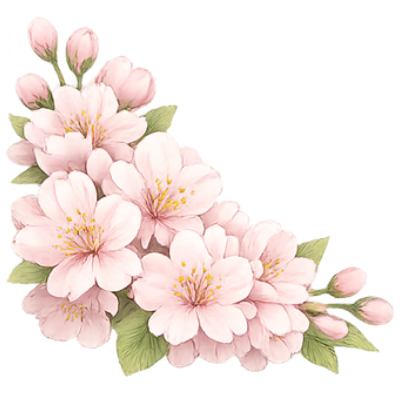
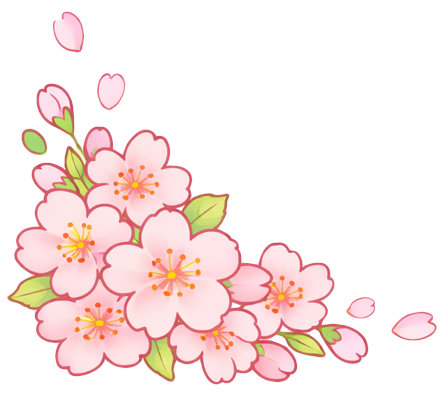
- 変更: facility.html と usageFlow.html に白背景クラスを追加 - 変更: header.css でヘッダー内のリンク色を背景色に統一し、白背景ページ用のスタイルを追加 - 変更: style.css で背景グラデーションの設定を修正し、ビューポート高さを確保 - 変更: toppage.css でテキスト色を背景色に変更し、レスポンシブ対応を強化 - 変更: usageFlowStyle.css にタイトル色のスタイルを追加 - 変更: js/app.js で季節クラスの付与機能を無効化するオプションを追加

diff --git a/header.css b/header.css
@@ -58,6 +58,8 @@ header a {
     text-decoration: none;
     font-weight: bold;
     font-size: 1rem;
+    /* 通常時：ヘッダー文字色は背景色と同系で表示 */
+    color: var(--backgroundColor);
 }
 
 header a:hover {
@@ -105,7 +107,6 @@ header .contact:hover img {
     transition: none;
     width: auto;
     min-width: fit-content;
-    color: var(--primaryTextColor);
     position: absolute;
     left: 50%;
     transform: translateX(-50%);
@@ -235,9 +236,12 @@ header.expanded .navbar .logo {
     margin: 0;
 }
 
-.navbar .logo a {
+
+/* ロゴ：グラデーション時は backgroundColor／グラデーション未適用ページでは primaryTextColor（変更しない） */
+
+header .navbar .logo a {
     font-size: 1.4rem;
-    color: var(--primaryTextColor);
+    color: var(--backgroundColor);
     padding: 0;
     display: flex;
     align-items: center;
@@ -245,6 +249,35 @@ header.expanded .navbar .logo {
     /* テキスト部分の幅を固定（logoが左右に振れないように） */
     white-space: nowrap;
     flex-shrink: 0;
+}
+
+/* バックグラウンドがグラデーションを適用していないページでは logo a は primaryTextColor のまま */
+html.page-bg-white header .navbar .logo a {
+    color: var(--primaryTextColor);
+}
+
+
+/* 白背景ページでは header 内の a タグも primaryTextColor（.contact は .contact 側で accent のまま） */
+
+html.page-bg-white header a {
+    color: var(--primaryTextColor);
+}
+
+html.page-bg-white header .contact {
+    color: var(--accentColor);
+}
+
+/* 展開時：ロゴも toggle_btn_icon と同様に primaryTextColor（白いヘッダー背景で見やすく） */
+header.expanded .navbar .logo a {
+    color: var(--primaryTextColor);
+}
+
+/* 展開時：header 内の a タグも同様に primaryTextColor（.contact は accent のまま） */
+header.expanded header a {
+    color: var(--primaryTextColor);
+}
+header.expanded header .contact {
+    color: var(--backgroundColor);
 }
 
 
@@ -307,18 +340,27 @@ header.expanded .navbar .logo {
     -webkit-mask-position: center;
     mask-position: center;
     transition: mask-image 0.2s ease, -webkit-mask-image 0.2s ease;
+    /* グラデーション時は backgroundColor、白背景ページでは下で primaryTextColor に上書き */
+    color: var(--backgroundColor);
 }
 
-/* 展開時：クローズアイコンに切り替え（位置はそのまま） */
-header.expanded ~ .header-toggle_btn .toggle_btn_icon {
+html.page-bg-white .header-toggle_btn .toggle_btn_icon {
+    color: var(--primaryTextColor);
+}
+
+
+/* 展開時：クローズアイコンに切り替え＋白飛び防止のため primaryTextColor を明示 */
+
+header.expanded~.header-toggle_btn .toggle_btn_icon {
     -webkit-mask-image: url(assets/close_24dp_E3E3E3_FILL0_wght400_GRAD0_opsz24.png);
     mask-image: url(assets/close_24dp_E3E3E3_FILL0_wght400_GRAD0_opsz24.png);
+    color: var(--primaryTextColor);
 }
 
 
 /* 展開時も同じ位置に固定（未展開時と top/right を同一に） */
 
-header.expanded ~ .header-toggle_btn {
+header.expanded~.header-toggle_btn {
     position: fixed;
     right: 2rem;
     top: calc(1rem + 0.6rem + (50px - 36px) / 2);
@@ -614,6 +656,10 @@ header.expanded .dropdown_menu .content-area {
 /* 1100px以上: nav-listを表示、toggle_btnを非表示 */
 
 @media (min-width: 1100px) {
+    /* 1100px以上：ヘッダー内の a タグは backgroundColor で統一 */
+    header a {
+        color: var(--backgroundColor);
+    }
     header {
         width: 80%;
         max-width: 1200px;
@@ -681,13 +727,26 @@ header.expanded .dropdown_menu .content-area {
     header .dropdown_menu .content-area {
         display: none;
     }
-    /* 文字色と表示を確実に設定 */
+    /* 文字色と表示を確実に設定（1100px以上は backgroundColor） */
     header .dropdown_menu .nav-list li a {
         font-size: 0.95rem;
         white-space: nowrap;
-        color: var(--primaryTextColor) !important;
+        color: var(--backgroundColor) !important;
         display: block;
         opacity: 1 !important;
+    }
+    /* ご利用の流れ・施設紹介（グラデーション未適用）：logo と同様に header の a も primaryTextColor */
+    html.page-bg-white header a {
+        color: var(--primaryTextColor);
+    }
+    html.page-bg-white header .navbar .logo a {
+        color: var(--primaryTextColor);
+    }
+    html.page-bg-white header .dropdown_menu .nav-list li a {
+        color: var(--primaryTextColor) !important;
+    }
+    html.page-bg-white header .contact {
+        color: var(--accentColor);
     }
 }
 
@@ -793,7 +852,7 @@ header.expanded .dropdown_menu .content-area {
         gap: 0;
         transition: none;
     }
-    header.expanded ~ .header-toggle_btn {
+    header.expanded~.header-toggle_btn {
         position: fixed;
         right: 2rem;
         font-size: 1.5rem;
@@ -894,7 +953,7 @@ header.expanded .dropdown_menu .content-area {
         gap: 0;
         transition: none;
     }
-    header.expanded ~ .header-toggle_btn {
+    header.expanded~.header-toggle_btn {
         position: fixed;
         right: 2rem;
         font-size: 1.3rem;

diff --git a/style.css b/style.css
@@ -10,25 +10,28 @@
         --primaryTextColor: #576b71;
         --secondaryTextColor: rgb(84, 82, 82);
         --accentColor: #75a1fa;
-        /* グラデーション2色（上→下）※季節は html.season-xxx で上書き */
-        --gradientColorTop: #afe6ff;
-        --gradientColorBottom: #f3f7ff;
-        --backgraundGradiete: linear-gradient(to bottom, var(--gradientColorTop), var(--gradientColorBottom));
+        /* グラデーション2色（上→下）※USE_SEASON_GRADIENT=true のときは html.season-xxx で上書きされる */
+        --gradientColorTop: #00b3ff;
+        --gradientColorBottom: #e3edff;
+        --backgroundGradient: linear-gradient(to bottom, var(--gradientColorTop), var(--gradientColorBottom));
     }
-
     /* 季節別グラデーション（app.js で html に .season-xxx が付与される） */
+    
     html.season-spring {
         --gradientColorTop: #afe6ff;
         --gradientColorBottom: #f3f7ff;
     }
+    
     html.season-summer {
         --gradientColorTop: #87ceeb;
         --gradientColorBottom: #e0f7ff;
     }
+    
     html.season-autumn {
         --gradientColorTop: #ffecd2;
         --gradientColorBottom: #f5e6d3;
     }
+    
     html.season-winter {
         --gradientColorTop: #e6f2ff;
         --gradientColorBottom: #f0f8ff;
@@ -44,9 +47,10 @@
     /* iOS Safari ステータスバー対応 */
     
     html {
-        min-height: 100%;
-        /* --backgraundGradiete で top→bottom の2色グラデーションを表示 */
-        background: var(--backgraundGradiete);
+        min-height: 100vh;
+        /* ビューポート高さを確保してグラデーションを表示 */
+        /* --backgroundGradient で top→bottom の2色グラデーションを表示 */
+        background: var(--backgroundGradient);
         background-attachment: fixed;
     }
     /* ページ表示時：ゆっくりフェードイン */
@@ -101,10 +105,14 @@
         width: 100%;
     }
     
+    /* グラデーション時は backgroundColor／グラデーション未適用ページでは primaryTextColor（header と同様） */
     .page-content h1 {
         text-align: center;
-        color: var(--primaryTextColor);
+        color: var(--backgroundColor);
         font-size: 1.8rem;
+    }
+    html.page-bg-white .page-content h1 {
+        color: var(--primaryTextColor);
     }
     
     @media (max-width: 600px) {

diff --git a/topPage/toppage.css b/topPage/toppage.css
@@ -19,7 +19,7 @@
     flex-direction: column;
     justify-content: center;
     align-items: center;
-    color: var(--primaryTextColor);
+    color: var(--backgroundColor);
 }
 
 .topTitle .mainTitle {
@@ -479,7 +479,8 @@
         flex-direction: column;
         justify-content: center;
         align-items: center;
-        color: var(--primaryTextColor);
+        /* ヘッダー同様・レスポンシブ時も backgroundColor */
+        color: var(--backgroundColor);
     }
     .topTitle .mainTitle {
         /* 親要素に収まるようにフォントサイズを調整 */
@@ -604,7 +605,8 @@
         flex-direction: column;
         justify-content: center;
         align-items: center;
-        color: var(--primaryTextColor);
+        /* ヘッダー同様・レスポンシブ時も backgroundColor */
+        color: var(--backgroundColor);
     }
     .topTitle .mainTitle {
         /* 親要素に収まるようにフォントサイズを調整 */
@@ -745,7 +747,8 @@
         flex-direction: column;
         justify-content: center;
         align-items: center;
-        color: var(--primaryTextColor);
+        /* ヘッダー同様・レスポンシブ時も backgroundColor */
+        color: var(--backgroundColor);
         /* 固定の高さでヘッダーの下に配置 */
         margin-top: 5rem;
         /* subTitleと車椅子の間を狭くする */

diff --git a/js/app.js b/js/app.js
@@ -9,7 +9,11 @@ function getSeason() {
 }
 
 // ページ読み込み時に html に季節クラスを付与（背景グラデーションを季節で切り替え）
+// false にすると季節クラスを付けず、style.css の :root の --gradientColorTop/Bottom が使われる
+const USE_SEASON_GRADIENT = false;
+
 (function setSeasonClass() {
+    if (!USE_SEASON_GRADIENT) return;
     const season = getSeason();
     const html = document.documentElement;
     html.classList.remove("season-spring", "season-summer", "season-autumn", "season-winter");

diff --git a/usageFlow/usageFlowStyle.css b/usageFlow/usageFlowStyle.css
@@ -19,6 +19,7 @@ body {
 
 .page-content h1 {
     margin-bottom: 0.8rem;
+    /* 色は style.css の html.page-bg-white .page-content h1 で primaryTextColor */
 }
 
 .page-content h3 {
@@ -333,6 +334,8 @@ hr {
         width: 60%;
         max-width: 60%;
         box-sizing: border-box;
+        margin-left: auto;
+        margin-right: auto;
     }
 }
 

diff --git a/facility/facilityStyle.css b/facility/facilityStyle.css
@@ -5,3 +5,5 @@ html {
 body {
     background: #fff;
 }
+
+/* 施設紹介ページのタイトル色は style.css の html.page-bg-white .page-content h1 で primaryTextColor */

diff --git a/facility.html b/facility.html
@@ -1,5 +1,5 @@
 <!DOCTYPE html>
-<html lang="ja">
+<html lang="ja" class="page-bg-white">
 
 <head>
     <meta charset="UTF-8">

diff --git a/usageFlow.html b/usageFlow.html
@@ -1,5 +1,5 @@
 <!DOCTYPE html>
-<html lang="ja">
+<html lang="ja" class="page-bg-white">
 
 <head>
     <meta charset="UTF-8">
